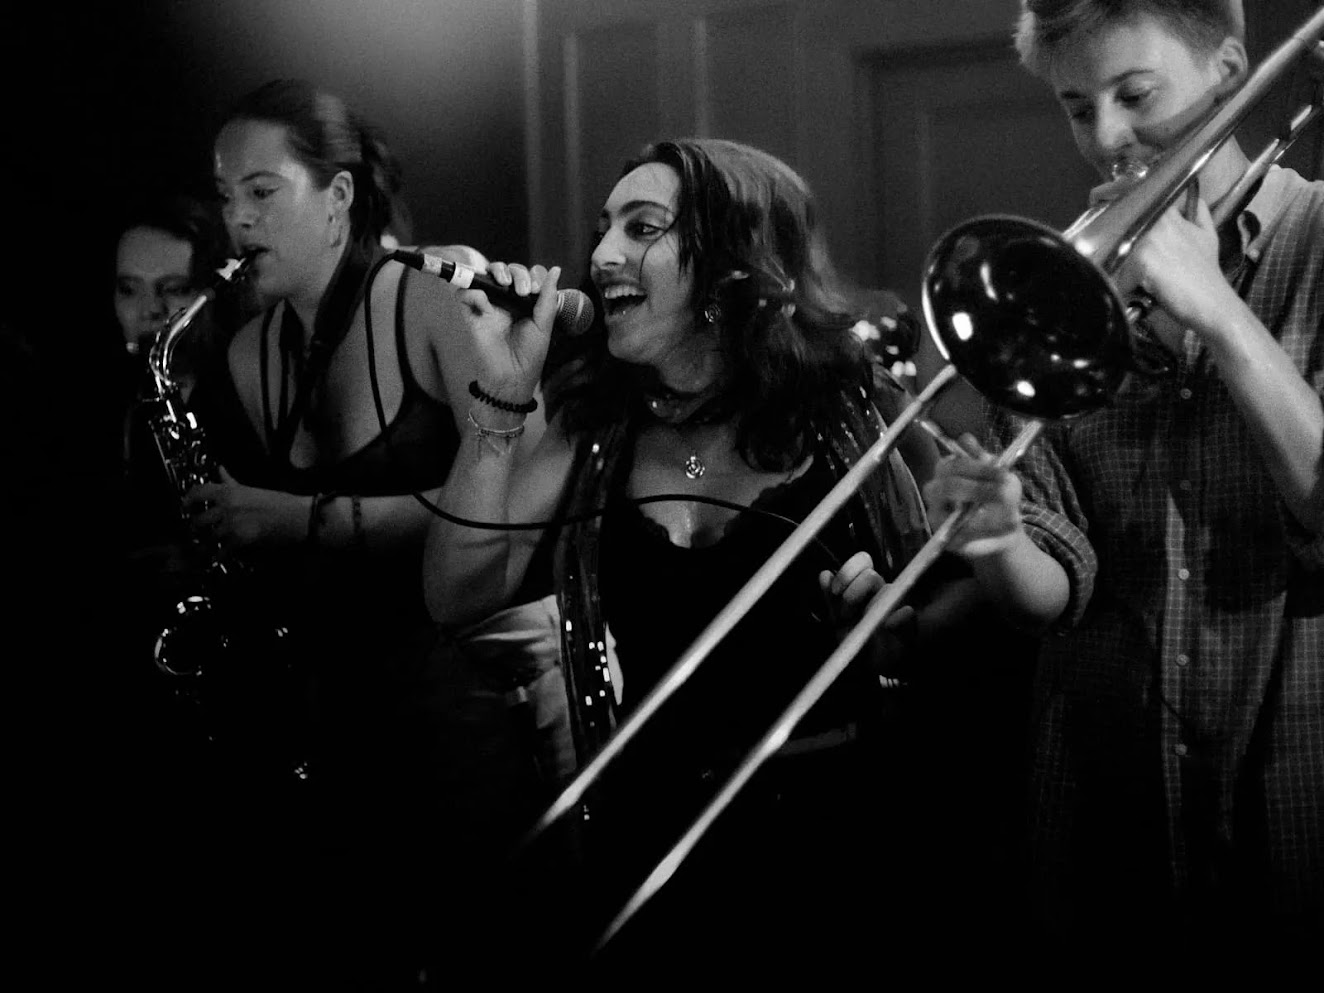
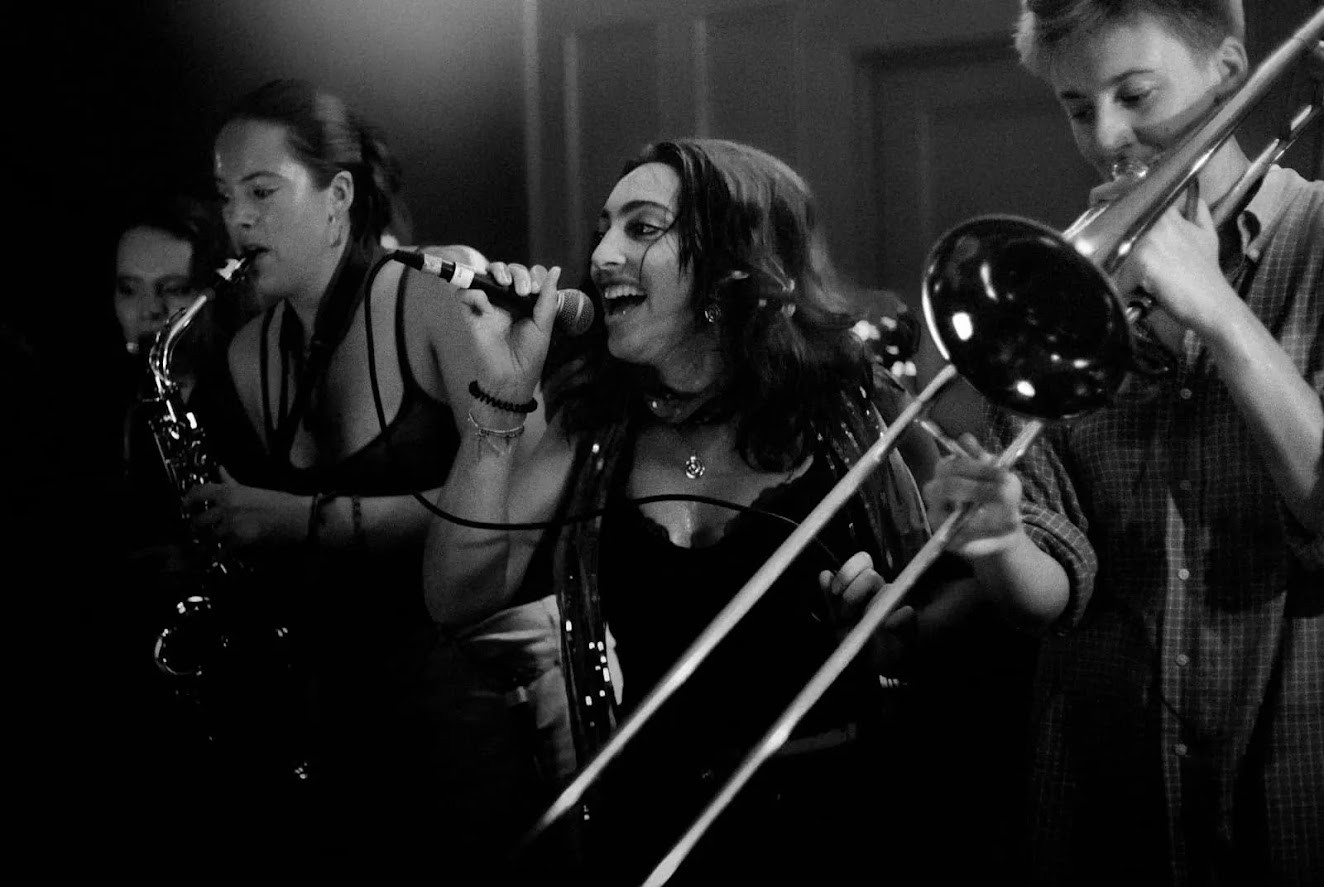
rescaling

Changed region(s): [[0.0619, 0.0, 1.0, 1.0], [0.1239, 0.6697, 0.1548, 0.7001], [0.0929, 0.6392, 0.1239, 0.6697]]

diff --git a/index.html b/index.html
@@ -115,7 +115,7 @@
             </div>
             <div class="event">
                 <div class="event-img-container">
-                    <img src="images/corn_exchange.jpeg" alt="A club night" id="club-img">
+                    <img src="images/club.webp" alt="A club night" id="club-img">
                 </div>
                 <div class="event-text">
                     <h4>Club Nights</h4>
